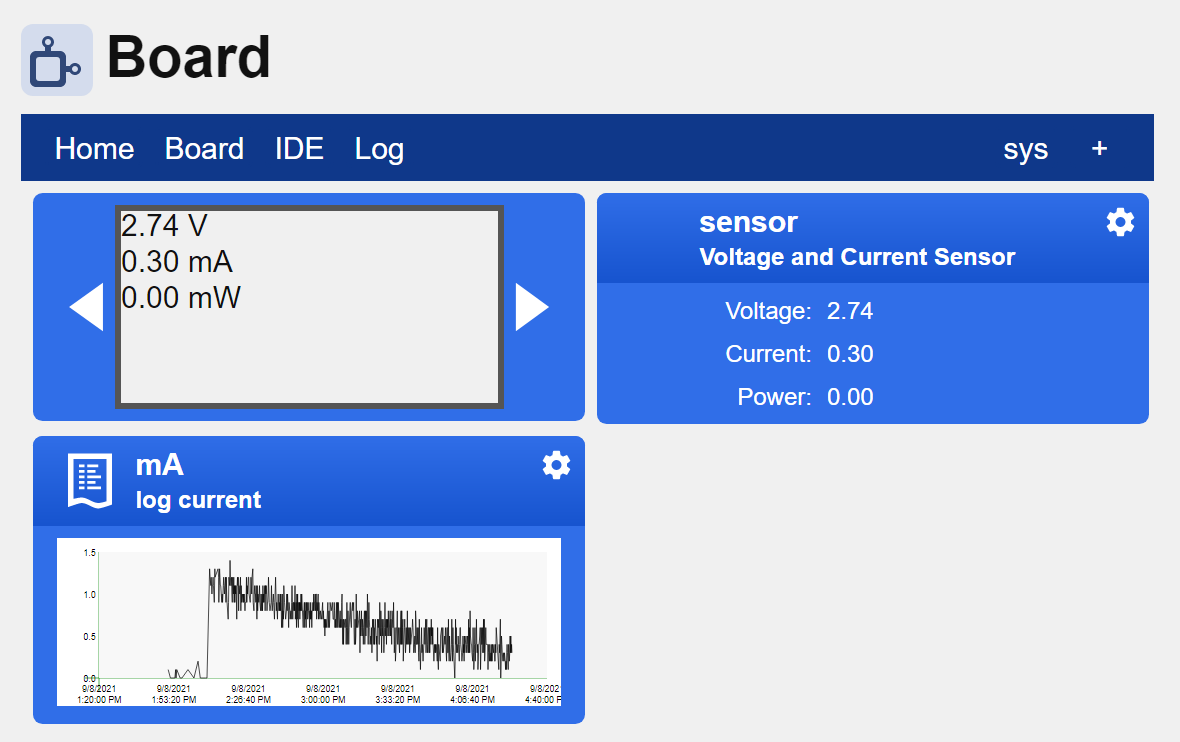
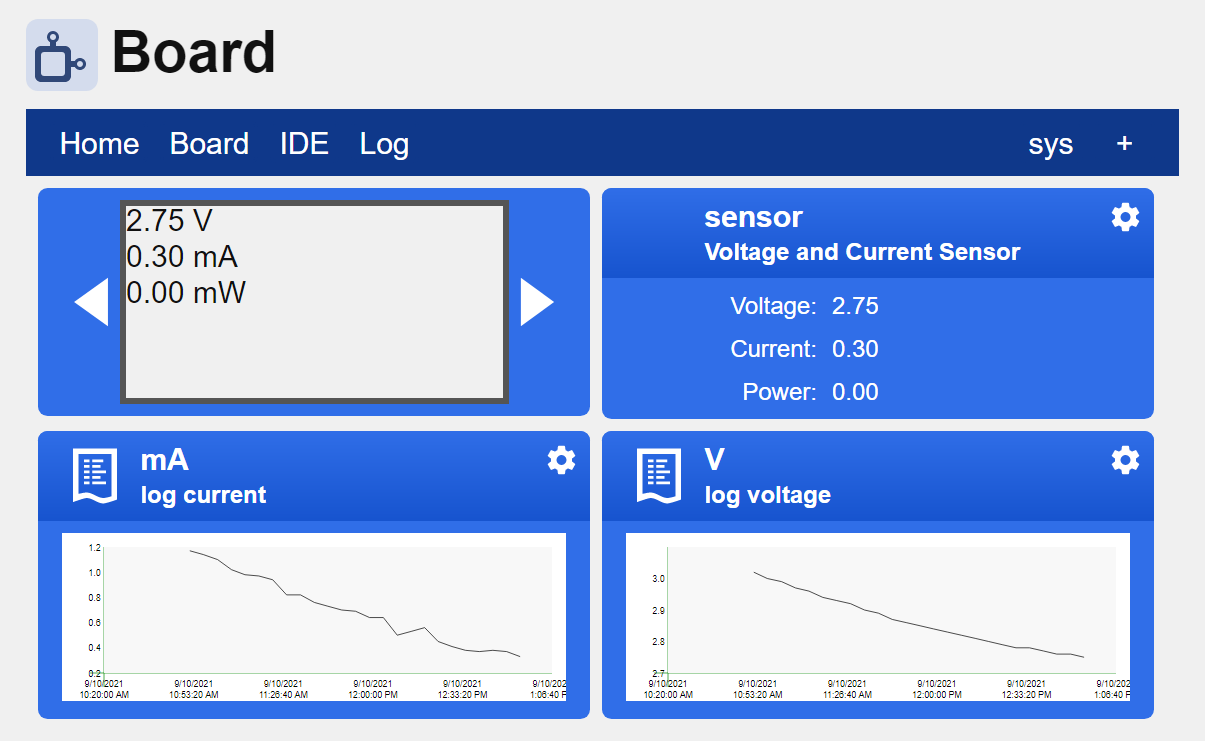
probe example doku

Changed region(s): [[0.0, 0.0, 0.9763, 0.9933]]

diff --git a/elements/ina226.md b/elements/ina226.md
@@ -1,0 +1,60 @@
+# INA226 
+
+:::element ina226 default
+The INA226 is a current and voltage sensor that uses the I2C bus for communication and can easily be adapted to any Arduino microcontroller including ESP6266 and EPS32.
+It can be powered by 3.3V to 5V but can measure voltages up to 26V.
+```
+
+This module has 4 connectors and breaks out the 4 signal sensing pins from the chip:
+VBUS, VIN+, VIN- and GND.
+This allows to use the module for current measurement using the built-in shunt in the High-Side or Low-Side.
+
+
+## High-Side Shunt 
+
+This version of connecting power supply and the consumer is according to the Figure 21 in the datasheet where the GND level is shared with Load, Power supply and the I2C bus.
+
+This is my preferred version of using the INA226.
+
+| Board Connector | INA266 Manual | Power connection     | Load Connection |
+| --------------- | ------------- | -------------------- | --------------- |
+| V+              | "VBUS"        | Power VCC (0 to 36V) |                 |
+| Current+        | "VIN+"        | Power VCC (0 to 36V) |                 |
+| Current-        | "VIN-"        |                      | Load VCC        |
+| V-              | "GND"         | Power GND            | Load GND        |
+
+Internally V-, GND and I2C-GND is connected.
+
+
+## Low-Side Shunt 
+
+Just to document:
+
+| Board Connector | INA266 Manual | Power connection     | Load Connection |
+| --------------- | ------------- | -------------------- | --------------- |
+| V+              | "VBUS"        | Power VCC (0 to 36V) | Load VCC        |
+| Current+        | "VIN+"        |                      | Load GND        |
+| Current-        | "VIN-"        | Power GND            |                 |
+| V-              | "GND"         | Power GND            |                 |
+
+Internally V-, GND and I2C-GND is connected.
+
+
+## I2C bus connectivity
+
+The I2C Connection is as usual. The VCC must be provided from the ESP8266 board using 3.3V.
+
+In the [Device Element](/elements/device.md) the SCL and SDA pins for the I2C bus need to be specified.
+These also must be connected to the INA226 board.
+
+The board needs +3.3V VCC power and requires some mA only so regulator on the ESP board can provide this.
+
+| ESP board | INA226 board |
+| :-------: | :----------: |
+|    GND    |     GND      |
+|    3V3    |     VCC      |
+|    D2     |     SCL      |
+|    D1     |     SDA      |
+
+
+ 

diff --git a/examples/probe.md b/examples/probe.md
@@ -6,12 +6,23 @@ that can retrieve sensor data from INA219 and INA266 current and voltage sensors
 to build a low-voltage power consumption logging device.
 :::
 
+This device is made to probe voltage and current on the power supply of another device for a long time (like days) and log the probe values into a log element to be inspected.
+
+The two sensors supported in this example behave very similar but are different in the register layout and capabilities. Each of them is supported using a specific element and a specific Arduino library. Document on the elements can be found here:
+
+* [INA219 Element](/elements/ina219.md)
+* [INA226 Element](/elements/ina226.md)
+
+They are doumented 
+
+The display is there to see the actual values.
+
 
 ## Web User interface
 
 The probe device can be accessed using a standard browser and displays the current values as well as the log from the current measures:
 
-![INA219 Sensor](/examples/probe-ui.png "w400")
+![INA219 Sensor](/examples/probe-ui.png "w600")
 
 
 ## INA219 Sensor
@@ -37,7 +48,7 @@ In the configuration some options can be modified. They are related to the featu
       "gain": "320",
       "warmuptime": "2s",
       "readtime": "10s",
-      "onVoltage": "displaytext/v?value=$v",
+      "onVoltage": "displaytext/v?value=$v,log/v?value=$v",
       "onCurrent": "displaytext/a?value=$v,log/a?value=$v",
       "onPower": "displaytext/p?value=$v"
     }
@@ -135,14 +146,30 @@ A [Log Element](/elements/log.md) is used to capture the current value from the 
     "a": {
       "title": "mA",
       "description": "log current",
-      "x-averagetime": "00:02:00",
+      "averagetime": "00:05:00",
       "filesize": "10000",
-      "filename": "/a-log.txt",
+      "filename": "/log-a.txt",
+      "yformat": "num:2"
+    },
+    "v": {
+      "title": "V",
+      "description": "log voltage",
+      "averagetime": "00:05:00",
+      "filesize": "10000",
+      "filename": "/log-v.txt",
       "yformat": "num:2"
     }
   }
 }
 ```
+
+The log file can hold about 640 values per 10 kByte. Recording a 5 min average probe values that are taken every 10s:
+
+* ina219/0?readtime=10s
+* log/v?averagetime=00:05:00
+
+This allows storing about 2-4 days of logging information.
+
 
 ## See also
 

diff --git a/boards/whiteadapter.md b/boards/whiteadapter.md
@@ -27,10 +27,10 @@ This is one of the required conditions so the module can start.
 ### Missing signals
 
 The REST signal should be pulled up to HIGH by default but many boards also run without.
-If you like to have a RES button aside a 10 kOhn pull up Resistor should be added.
+If you like to have a RES button aside a 10 kOhm pull up Resistor should be added.
 
 The GPIO0(D3) signal should be pulled up to HIGH for normal operation and to LOW for uploading a sketch using the Serial interface.
-I recommend to have a FLASH button and a 10 kOhn pull up resistor on this pin.
+I recommend to have a FLASH button and a 10 kOhm pull up resistor on this pin.
 
 The GPIO0 signal should be pulled up to HIGH to start the board. 
 Some boards (at least some ESP-12E) already have an internal resistor for the same reason but to add another one is not harmful.

diff --git a/elements.md b/elements.md
@@ -312,12 +312,21 @@ These implementations are still experimental cases but are published already may
 
 :::element ina219 default
 INA219 sensor, voltage and current.
+
+This sensor is features by the [Probe example](/examples/probe.md)
+:::
+
+:::element ina226 default
+INA226 sensor, voltage and current.
+
+This sensor is features by the [Probe example](/examples/probe.md)
 :::
 
 :::element radio radio
-This element is part of the [Radio Example](/examples/radio.md)
-and uses the external [Radio Library](http://www.mathertel.de/Arduino/RadioLibrary.aspx)
-to configure various FM radio boards.
+This element features the external [Radio Library](http://www.mathertel.de/Arduino/RadioLibrary.aspx)
+to configure and use various FM radio boards.
+
+This element is part of the [Radio Example](/examples/radio.md).
 :::
 
 

diff --git a/sensors/sensors.md b/sensors/sensors.md
@@ -309,8 +309,15 @@ not yet supported.
 :::sensor ina219
 The **ina219** chip can measure voltage and current for power consumer in the low voltage and low power range.
 
-This chip is not yet fully supported by the HomeDing library.
-An experimental state implementation in the [INA219 Element](/elements/ina219.md) in the DevDing example is available.
+This chip is supported by the [Probe example](/examples/probe.md) in the HomeDing library
+where you can find the [INA219 Element](/elements/ina219.md).
+:::
+
+:::sensor no ina226
+The **ina226** chip can measure voltage and current for power consumer in the low voltage and low power range.
+
+This chip is supported by the [Probe example](/examples/probe.md) in the HomeDing library
+where you can find the [INA226 Element](/elements/ina226.md).
 :::
 
 :::sensor soil
